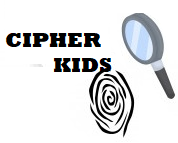
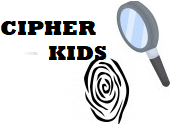
Di formato de estilo a texto, imagenes, botones. El cifrado corre(falta la parte hacker). Se dio hoover y se metio la funcion parseInt

diff --git a/src/index.html b/src/index.html
@@ -5,38 +5,39 @@
   <meta charset="UTF-8">
   <meta name="viewport" content="width=device-width, initial-scale=1.0">
   <meta http-equiv="X-UA-Compatible" content="ie=edge">
+  <!---vincula CSS-->
   <link rel="stylesheet" href="style.css">
+  <link rel="stylesheet" href="https://fonts.googleapis.com/css?family=Allerta|Allerta+Stencil&display=swap">
   <title>Cipher KIDS</title>
 </head>
 
 <body>
-
-  <header id='header'>
+<!---encabezado, se utiliza ademas el id "header" para poder llamarlo con document.getElementById en el .js-->
+  <header id="header">
     <img id="logo" src="img/cipher-dog.png" alt="cipher-dog">
-    <p>Cipher<br>KIDS</p>
     <img id="hat" src="img/hat.png" alt="hat">
+    <p id="p-header1">Cipher</p> <p id="p-header2">KIDS</p>
   </header>
   <hr style="color:#1FCC7F; width: 96%; border-width: 4px; border-radius: 4px">
+<!---contenido principal-->
   <main>
-
+    <!---seccion de bienvenida, donde se presenta Key, el personaje principal-->
     <div id="welcome" class="">
       <img id="pipe" src="img/pipe.png" alt="pipe">
       <div id="presentation">
-        <p>¡Hola Criptologx! <br>
-          <br>Soy Key, la mejor detective más audaz. <br>
-          <br>Amo descifrar enigmas y resolver misterios escondidos.
-          <img id="Key" src="img/KEY.png" alt="character-Key">
-          Mis mejores amigos son Set y Cipher. <br>
-          <br> ¡Están impacientes por verte! <br>
-          <br> ¿Comenzamos?
-        </p>
-        <button><img id="hide-detective" src="img/hide-detective.png" alt="hide-detective"></button>
+        <h2>¡Hola Criptologx!</h2>
+          <p>Soy Key, la detective más audaz.</p>
+            <img id="Key" src="img/KEY.png" alt="character-Key">
+          <p>Amo descifrar enigmas y resolver misterios escondidos.</p>
+          <p>¡El equipo Cipher KIDS esta impaciente por verte!</p>
+          <!---boton para comenzar-->
+          <p align="center"> <button id="start">¿Comenzamos?</button> </p>
       </div>
     </div>
 
     <div id="options" class="hide">
       <img id="Set" src="img/kid-glass.png" alt="Set">
-      <p> ¡Hola, soy Set, el mejor amigo de Key. Es un gusto verte <br>
+      <p> ¡Hola, soy Set, el mejor amigo de Key. Es un gusto verte!<br>
         <br> El es Cipher, el mejor perro detective del mundo.
         <img id="dog" src="img/dog.png" alt="dog"> <br>
         <br> Siempre está en busca de nuevas pistas.
@@ -44,13 +45,12 @@
       <div id="decode-option">
         <p> ¿Has encontrado un nuevo enigma a descifrar? <br>
           <br>¡Que emoción!</p>
-        <button><img id="decode-option-button" src="img/magnified.png" alt="decode-option" class="go-decode"></button>
+        <button id="decode-option-button"><img src="img/magnified.png" alt="decode-option"></button>
       </div>
       <div id="encode-option">
         <p> ¿Misión ultra secreta? <br>
           <br>¡Impide que información valiosa caiga en las manos equivocadas! </p>
-        <button><img id="encode-option-button" src="img/detective-glasses.png" alt="encode-option"
-            class="go-encode"></button>
+        <button id="encode-option-button"><img src="img/detective-glasses.png" alt="encode-option"></button>
       </div>
     </div>
 
@@ -66,10 +66,10 @@
         <br>
         <button id="decode-button" type="button">¡A descifrar!</button>
         <br>
-        <label id="decode-label" for="decode-output" class="hide"><h3>¡Ahora está descifrado!</h3></label>
+        <p id="p-decode" class=""><br></p>
+        <label id="decode-label" for="decode-output" class="hide"><br><h3>¡Lo hemos descifrado!</h3></label>
         <input  id="decode-output"
           placeholder="Aquí aparecerá tu texto-enigma descifrado">
-        <br><br>
         <button id="return-options1">Regresar</button>&nbsp;&nbsp;&nbsp;<button id="go-exit1">Salir</button>
       </form>
     </div>
@@ -85,18 +85,18 @@
         <input type="text" id="encode-input2" placeholder="Offset" required>
         <br>
         <button id="encode-button" type="button">¡Manos a la obra!</button>
-        <br>
+        <p id="p-encode" class=""> <br> </p>
         <label id="encode-label" for="encode-output" class="hide"><h3>¡Lo hemos encriptado!</h3>
           Recuerda enviar la pista secreta (offset) a tus amigos</label>
         <input id="encode-output" placeholder="Aquí aparecerá tu texto cifrado">
-        <p id="p-encode" class=""> <br><br> </p>
         <button id="return-options2">Regresar</button>&nbsp;&nbsp;&nbsp;<button id="go-exit2">Salir</button>
         </form>
     </div>
 
     <div id="exit" class="hide">
       Muchas gracias por usar Cipher KIDS. <br><br><br> ¡Hasta la próxima aventura!
-      <br><img src="img/LadyGeek.png" alt="LadyGeek">
+      <br><img id="lady-geek" src="img/LadyGeek.png" alt="LadyGeek">
+      <br> <button id="return-start">Inicio</button>
     </div>
   </main>
 

diff --git a/src/style.css b/src/style.css
@@ -1,5 +1,5 @@
 * {
-    font-family: 'Stencil', 'Berlin Sans FB Demi', arial Impact, Haettenschweiler, 'Arial Narrow Bold', sans-serif 'Segoe UI';
+    font-family:  'Allerta Stencil', sans-serif;
    }
 
 body {
@@ -17,33 +17,34 @@ body {
 }
 
 header {
-    height: 145.6px;
+    height: 142px;
     text-align: center;
     color: rgb(139, 18, 18);
-    font-size: 54px;
-    font-weight: bolder;
+    font-size: 56px;
+    font-weight: bold;
+    border-radius: 10px;
+    cursor: pointer;
 }
 
 main {
-    height: 582px;
+    height: 650px;
     color: black;
-    font-weight: bolder;
     background-image:url(style/cipher-background.png);
     background-size: contain;
     background-repeat: repeat;
     padding: 10px;
+    font-weight: bold;
 }
 
 footer {
     padding: 10px;
     font-size: 15px;
-    font-weight: bolder;
 }
 
 
 /* secciones */
 #welcome, #exit {
-    font-size: 27px;
+    font-size: 28px;
 }
 
 #exit {
@@ -58,14 +59,35 @@ footer {
     font-size: 20px;
 }
 
+#welcome p {
+margin-top: 50px;
+}
+
+#p-header1 {
+margin: 0;
+text-align: center;
+}
+
+#p-header2 {
+    margin: 0;
+    padding-left: 40%;
+    }
+
 /*subsecciones*/
 
 #encode-option, #decode-option {
-    width: 48%;
+    width: 49%;
     height: 275px;
-    padding-top: 2px;
+    padding: 2px;
     text-align: center;
+    border-radius: 22px;
 }
+
+#encode-option:hover, #decode-option:hover {
+    background-color:rgba(255, 236, 220, 0.63);
+    cursor: pointer;
+}
+
 
 #encode-form, #decode-form {
     width: 48%;
@@ -75,12 +97,37 @@ footer {
 
 
 /*botones*/
-#decode-option-button, #encode-option-button {
 
+#start {
+    margin-top: 40px;
 }
 
-#decode-button, #encode-button {
-    margin-top: 22px;
+#return-start {
+    margin-top: 18px;
+}
+
+#start, #return-start {
+    padding-top: 10px;
+    border-radius: 10px;
+    font-weight: bolder;
+    font-size: 20px;
+    align-self: center;
+    cursor: pointer;
+    padding-bottom: 10px;
+}
+
+#decode-option-button, #encode-option-button {
+    border-radius: 10px;
+}
+
+#decode-button, #encode-button,
+#return-options1, #return-options2,
+#go-exit1, #go-exit2 {
+    margin-top: 20px;
+    height: 35px;
+    border-radius: 10px;
+    cursor: pointer;
+    font-weight: bold;
 }
 
 /* imágenes y subsecciones*/
@@ -94,17 +141,11 @@ footer {
 }
 
 #logo {
-    top: 1.9%;
-    left: 23%;
-    height: 200px;
-    width: 155px;
+    margin-left: 8px;
+    top: 2.2%;
+    left: 21.2%;
     position: absolute;
-}
-
-#hat {
-    top: -151%;
-    left: -3%;
-    position: relative;
+    border-radius: 8px;
 }
 
 #pipe {
@@ -114,23 +155,19 @@ footer {
 }
 
 #Key {
-    height: 380px;
-    width: 214px;
     padding-left: 20px;
+    width: 37%;
 }
 
 #Key2 {
-    height: 340px;
-    width: 194px;
-    padding-left: 20px;
-    padding-right: 7px;
+    padding-left: 50px;
+    padding-top: 50px;
 }
-
+/*
 #hide-detective {
     height: 157px;
     width: 145px;
-}
-
+} */
 #dog {
     height: 200px;
     width: 166px;
@@ -139,40 +176,36 @@ footer {
 }
 
 #cipher2 {
-    width: 70px;
-    height: 70px;
+    width: 12%;
     top: 100%;
     left: 0%;
     position: relative;
+    border-radius: 8px;
 }
 
-/* input */
+/* input y output*/
 
-#decode-input1, #encode-input1 {
-    height: 100px;
-    width: 300px;
+#decode-input1, #encode-input1,
+#decode-output, #encode-output {
+    height: 95px;
+    width: 315px;
     border-width: 3px;
     font-size: 15px;
     margin-top: 15px;
+    border-radius: 15px;
 }
 
 #decode-input2, #encode-input2 {
     height: 18px;
-    width: 34px;
+    width: 40px;
     border-width: 2px;
     font-size: 12.5px;
     margin-top: 12px;
+    border-radius:7px;
 }
 
-/* output */
+/* output  oculto*/
 
-#decode-output, #encode-output {
-    height: 100px;
-    width: 300px;
-    border-width: 3px;
-    font-size: 15px;
-    margin-top: 15px;
-}
 
 #decode-label, #encode-label {
     margin-top: 15px;

diff --git a/src/index.js b/src/index.js
@@ -18,17 +18,21 @@ let decodeLabel = document.getElementById('decode-label');
 let encodeLabel = document.getElementById('encode-label');
 
 let pEncode = document.getElementById('p-encode');
+let pDecode = document.getElementById('p-decode');
 
 
 //declarando variables que traigan elementos que van a redireccionar
 const goHome = document.getElementById('header');
-const optionsButton = document.getElementById('hide-detective');
+const optionsButton = document.getElementById('start');
 const encodeOptionButton = document.getElementById('encode-option-button');
 const decodeOptionButton = document.getElementById('decode-option-button');
+const encodeOption = document.getElementById('encode-option');
+const decodeOption = document.getElementById('decode-option');
 const returnOptions1 = document.getElementById('return-options1');
 const returnOptions2 = document.getElementById('return-options2');
 const goExit1 = document.getElementById('go-exit1');
 const goExit2 = document.getElementById('go-exit2');
+const returnStart = document.getElementById('return-start');
 
 
 //declarando variables que traigan secciones (elementos a donde se va a redireccionar)
@@ -54,6 +58,7 @@ const cleanFormD = () => {
     decodeOutput.value = "";
     input1D.value = "";
     input2D.value = "";
+    pDecode.classList.remove('hide');
 };
 
 const cleanFormE = () => {
@@ -67,21 +72,27 @@ const cleanFormE = () => {
 
 //"chismosas" que introduzcan el resultado de las funciones del objeto 'cipher'
 decodeButton.addEventListener('click', () => {
-    decodeOutput.value = window.cipher.decode(input2D.value, input1D.value);
-    decodeLabel.classList.remove('hide');    
+    let n = parseInt(input2D.value);
+    decodeOutput.value = window.cipher.decode(n, input1D.value);
+    decodeLabel.classList.remove('hide');
+    pDecode.classList.add('hide');
 });
 encodeButton.addEventListener('click', () => {
-    encodeOutput.value = window.cipher.encode(input2E.value, input1E.value);
+    let n = parseInt(input2E.value);
+    encodeOutput.value = window.cipher.encode(n, input1E.value);
     encodeLabel.classList.remove('hide');
     pEncode.classList.add('hide');
 });
 
 
 //"chismosas" redireccionar
-goHome.addEventListener('click', () => goSection(options));
+goHome.addEventListener('click', () => goSection(welcome));
+returnStart.addEventListener('click', () => goSection(welcome));
 optionsButton.addEventListener('click', () => goSection(options));
 decodeOptionButton.addEventListener('click', () => goSection(decode));
 encodeOptionButton.addEventListener('click', () => goSection(encode));
+decodeOption.addEventListener('click', () => goSection(decode));
+encodeOption.addEventListener('click', () => goSection(encode));
 
 returnOptions1.addEventListener('click', (e) => {
     goSection(options);
